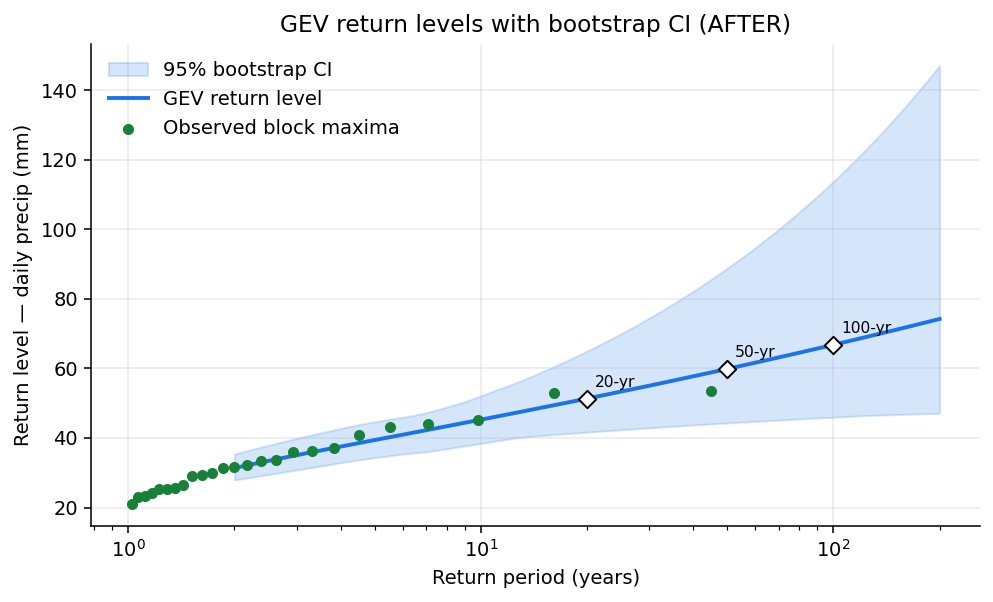
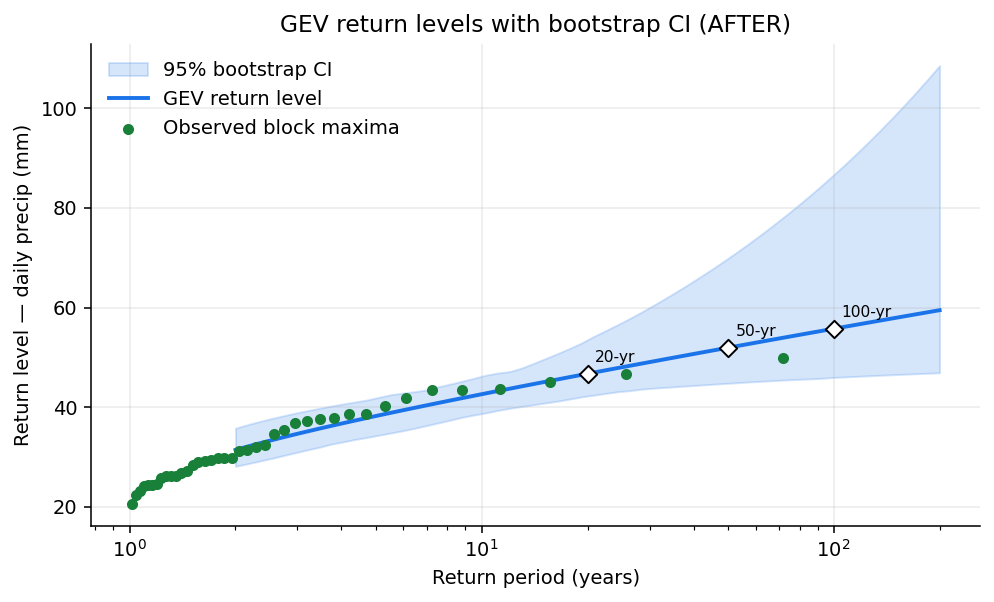
Exp02 full run (40-yr): real results
BEFORE empirical 100-yr return level 48.6mm (point only). AFTER GEV 100-yr 55.8mm
[46.7-80.2] bootstrap CI; warming trend significant (MK p=0.0011); validate() flags
stationary-GEV violation -> recommends non-stationary fit. Rigor win, honestly caveated.

diff --git a/experiments/02_extreme_value_trends/results/summary.md b/experiments/02_extreme_value_trends/results/summary.md
@@ -1,39 +1,39 @@
 # Experiment 02 — Extreme-value & trend detection: BEFORE vs AFTER
 
-Synthetic daily precipitation, 25 years, seed 1, intensification 0.12/decade (QUICK mode).
+Synthetic daily precipitation, 40 years, seed 0, intensification 0.08/decade.
 
 ## Trend (annual maxima, Rx1day)
 
-- Mann-Kendall: z = +2.08, p = 0.0377 over 25 annual blocks.
-- Sen's slope: +0.5457 mm/yr.
+- Mann-Kendall: z = +3.27, p = 0.0011 over 40 annual blocks.
+- Sen's slope: +0.3522 mm/yr.
 
 ## Return levels (mm)
 
 | T (yr) | BEFORE (empirical) | AFTER (GEV) | AFTER 95% CI |
 |---:|---:|---:|---:|
-| 20 | 51.44 | 51.34 | [42.26, 68.09] |
-| 50 | 53.29 | 59.86 | [44.54, 96.88] |
-| 100 | 53.43 | 66.80 | [46.44, 128.43] |
+| 20 | 45.19 | 46.73 | [42.34, 52.08] |
+| 50 | 47.33 | 51.94 | [45.19, 65.53] |
+| 100 | 48.63 | 55.75 | [46.68, 80.22] |
 
 ## GEV fit
 
-- Method: nll-min; mu = 28.95, sigma = 6.46, xi = 0.101 (shape c = -0.101), n = 25 blocks.
+- Method: nll-min; mu = 29.18, sigma = 6.16, xi = -0.028 (shape c = 0.028), n = 40 blocks.
 
 ## Trend table (all indices)
 
 | Index | Sen slope (mm/yr) | MK z | MK p |
 |---|---:|---:|---:|
-| AnnualMaxima(Rx1day) | +0.5457 | +2.08 | 0.0377 |
-| Rx5day | +0.4018 | +1.38 | 0.1682 |
-| R95p | +4.3511 | +1.99 | 0.0471 |
+| AnnualMaxima(Rx1day) | +0.3522 | +3.27 | 0.0011 |
+| Rx5day | +0.2845 | +1.97 | 0.0490 |
+| R95p | +2.7183 | +3.39 | 0.0007 |
 
 ## Human-in-the-loop validation
 
 - Passed (no blocking warnings): **False**
-- [WARN] Annual maxima show a statistically significant trend (MK p=0.0377): the stationary-GEV assumption is violated. The reported return levels are a record-average; for a current-climate estimate fit a non-stationary GEV (time-varying location/scale).
-- [note] Block count adequate: 25 annual maxima (>= 20).
-- [note] Block-maxima lag-1 autocorrelation -0.17: independence OK.
-- [note] GEV shape xi=0.10 in a plausible range (|xi|<=0.5).
+- [WARN] Annual maxima show a statistically significant trend (MK p=0.0011): the stationary-GEV assumption is violated. The reported return levels are a record-average; for a current-climate estimate fit a non-stationary GEV (time-varying location/scale).
+- [note] Block count adequate: 40 annual maxima (>= 20).
+- [note] Block-maxima lag-1 autocorrelation 0.08: independence OK.
+- [note] GEV shape xi=-0.03 in a plausible range (|xi|<=0.5).
 - [note] Multiple-testing: 3 trend tests reported; use a Bonferroni threshold of alpha/3 = 0.0167 for family-wise control.
 
 ## Artifacts
